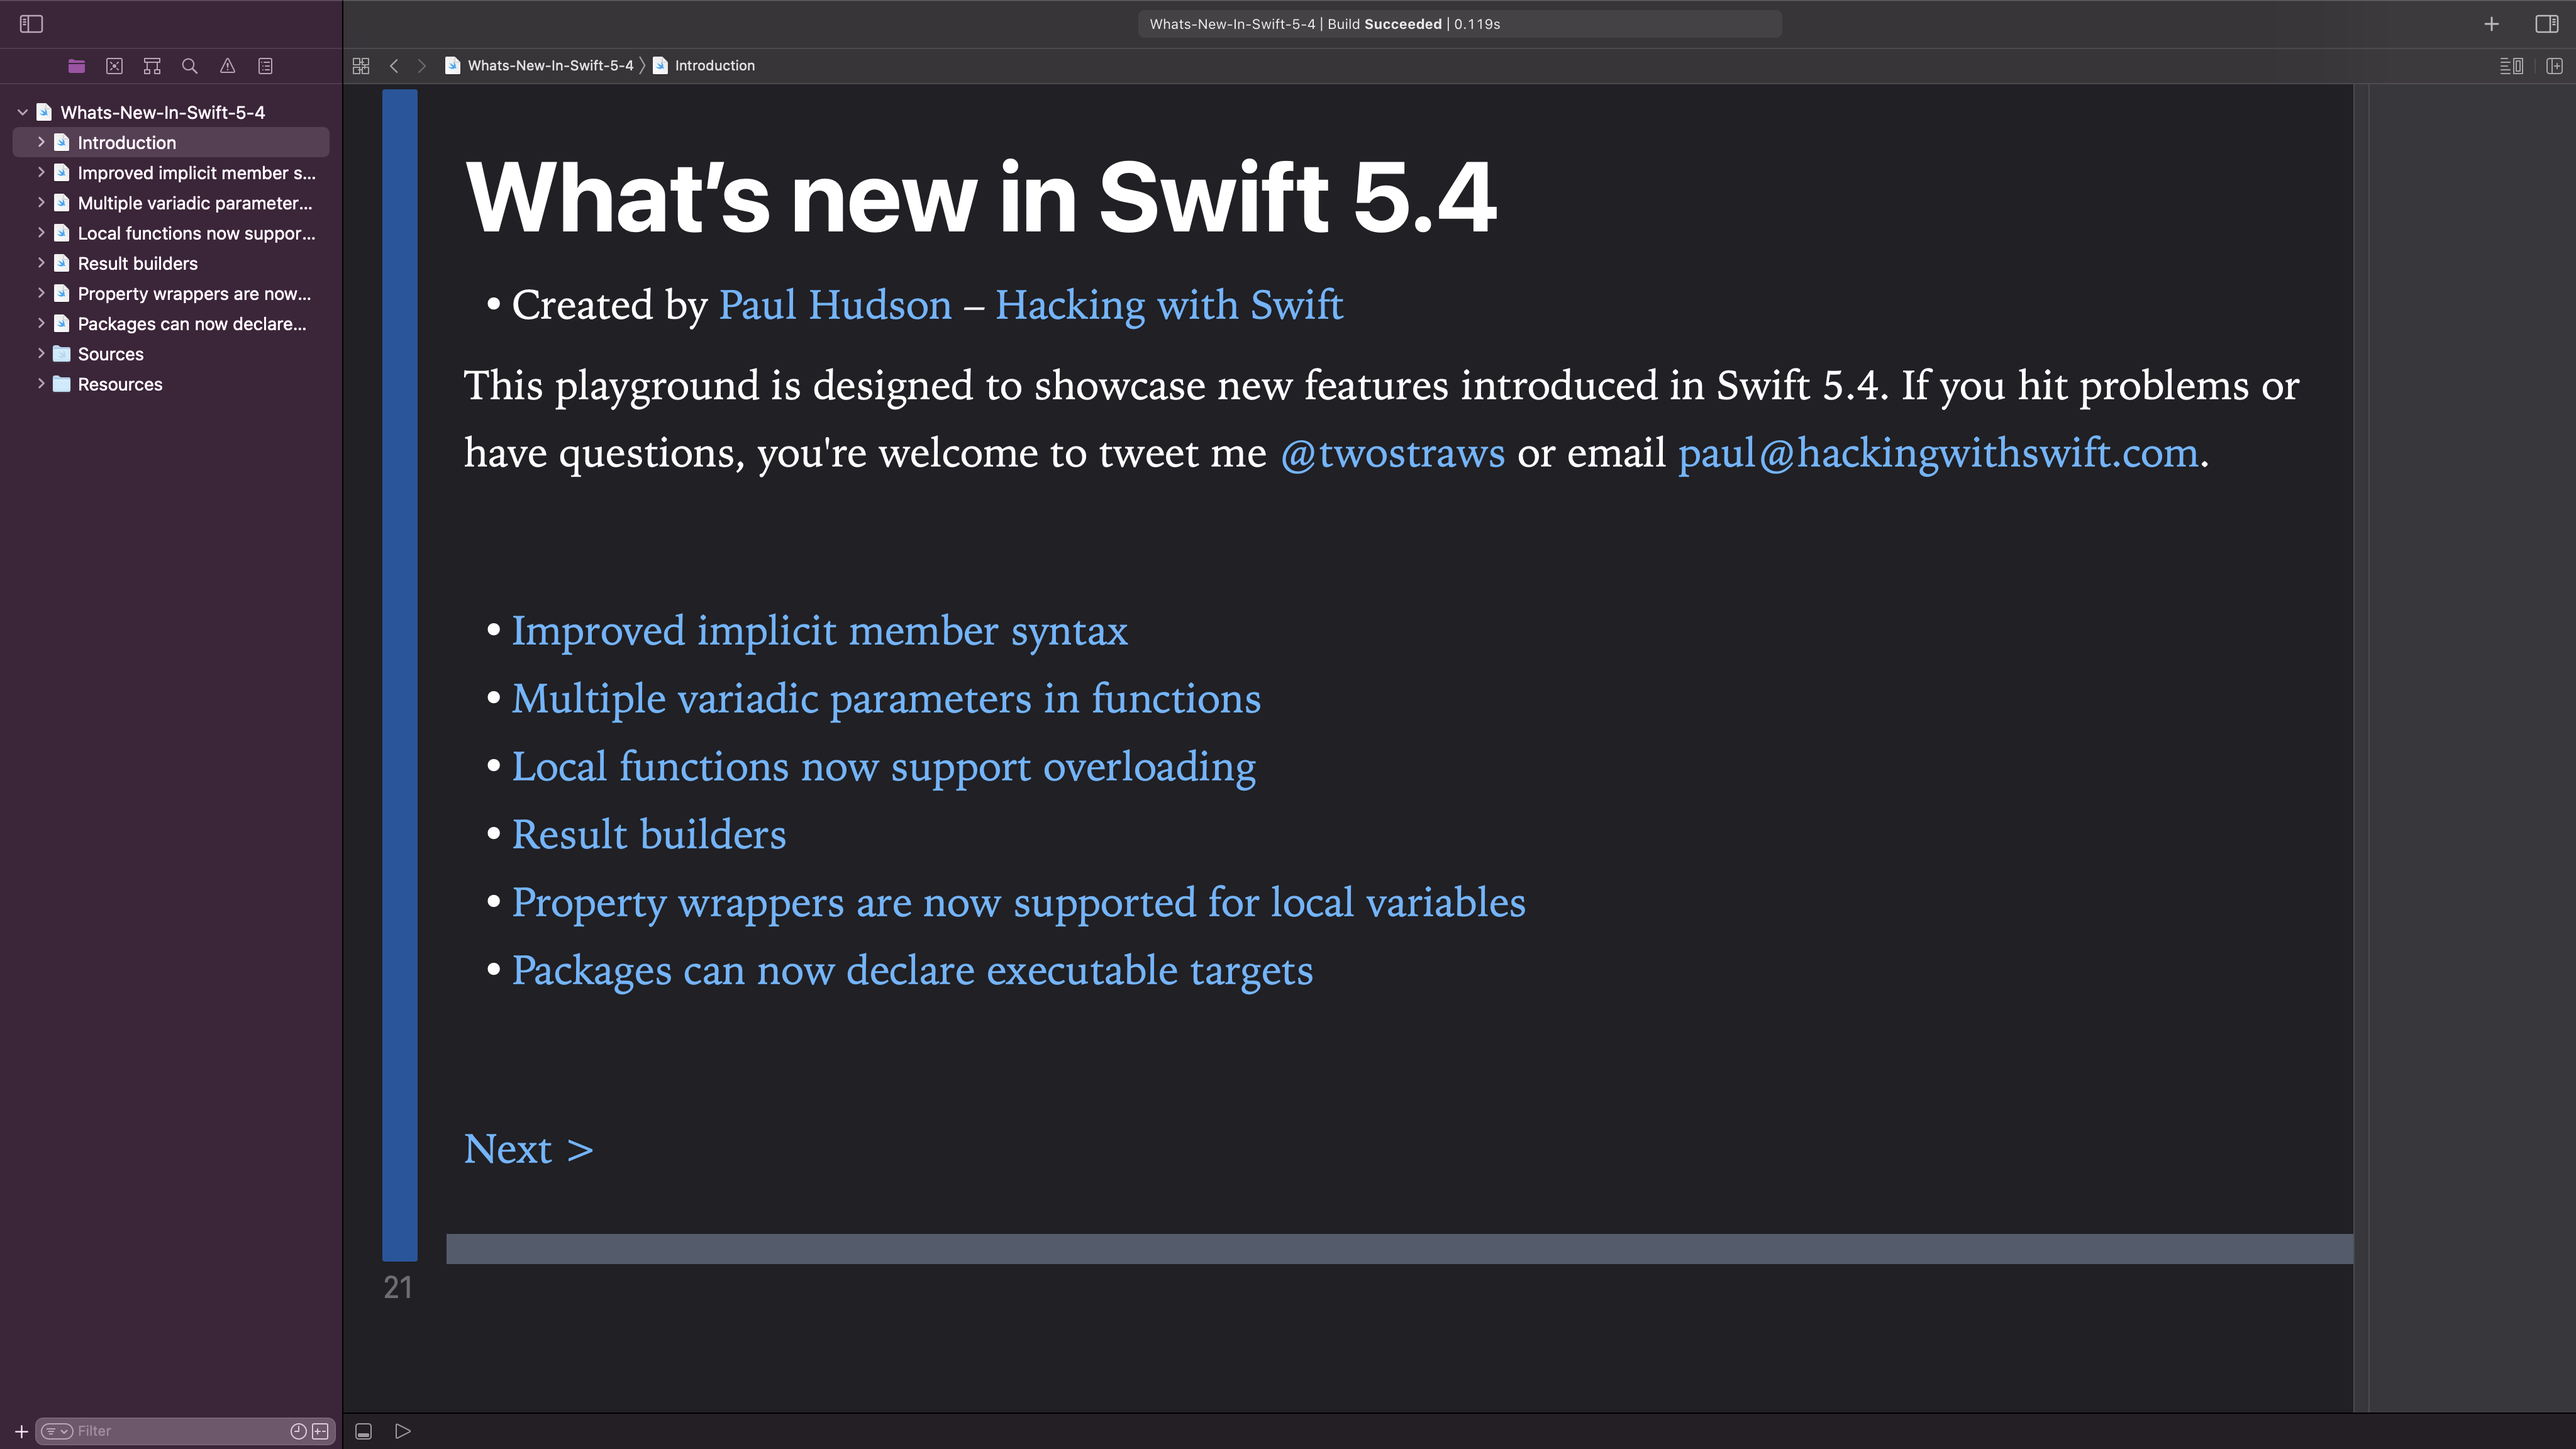
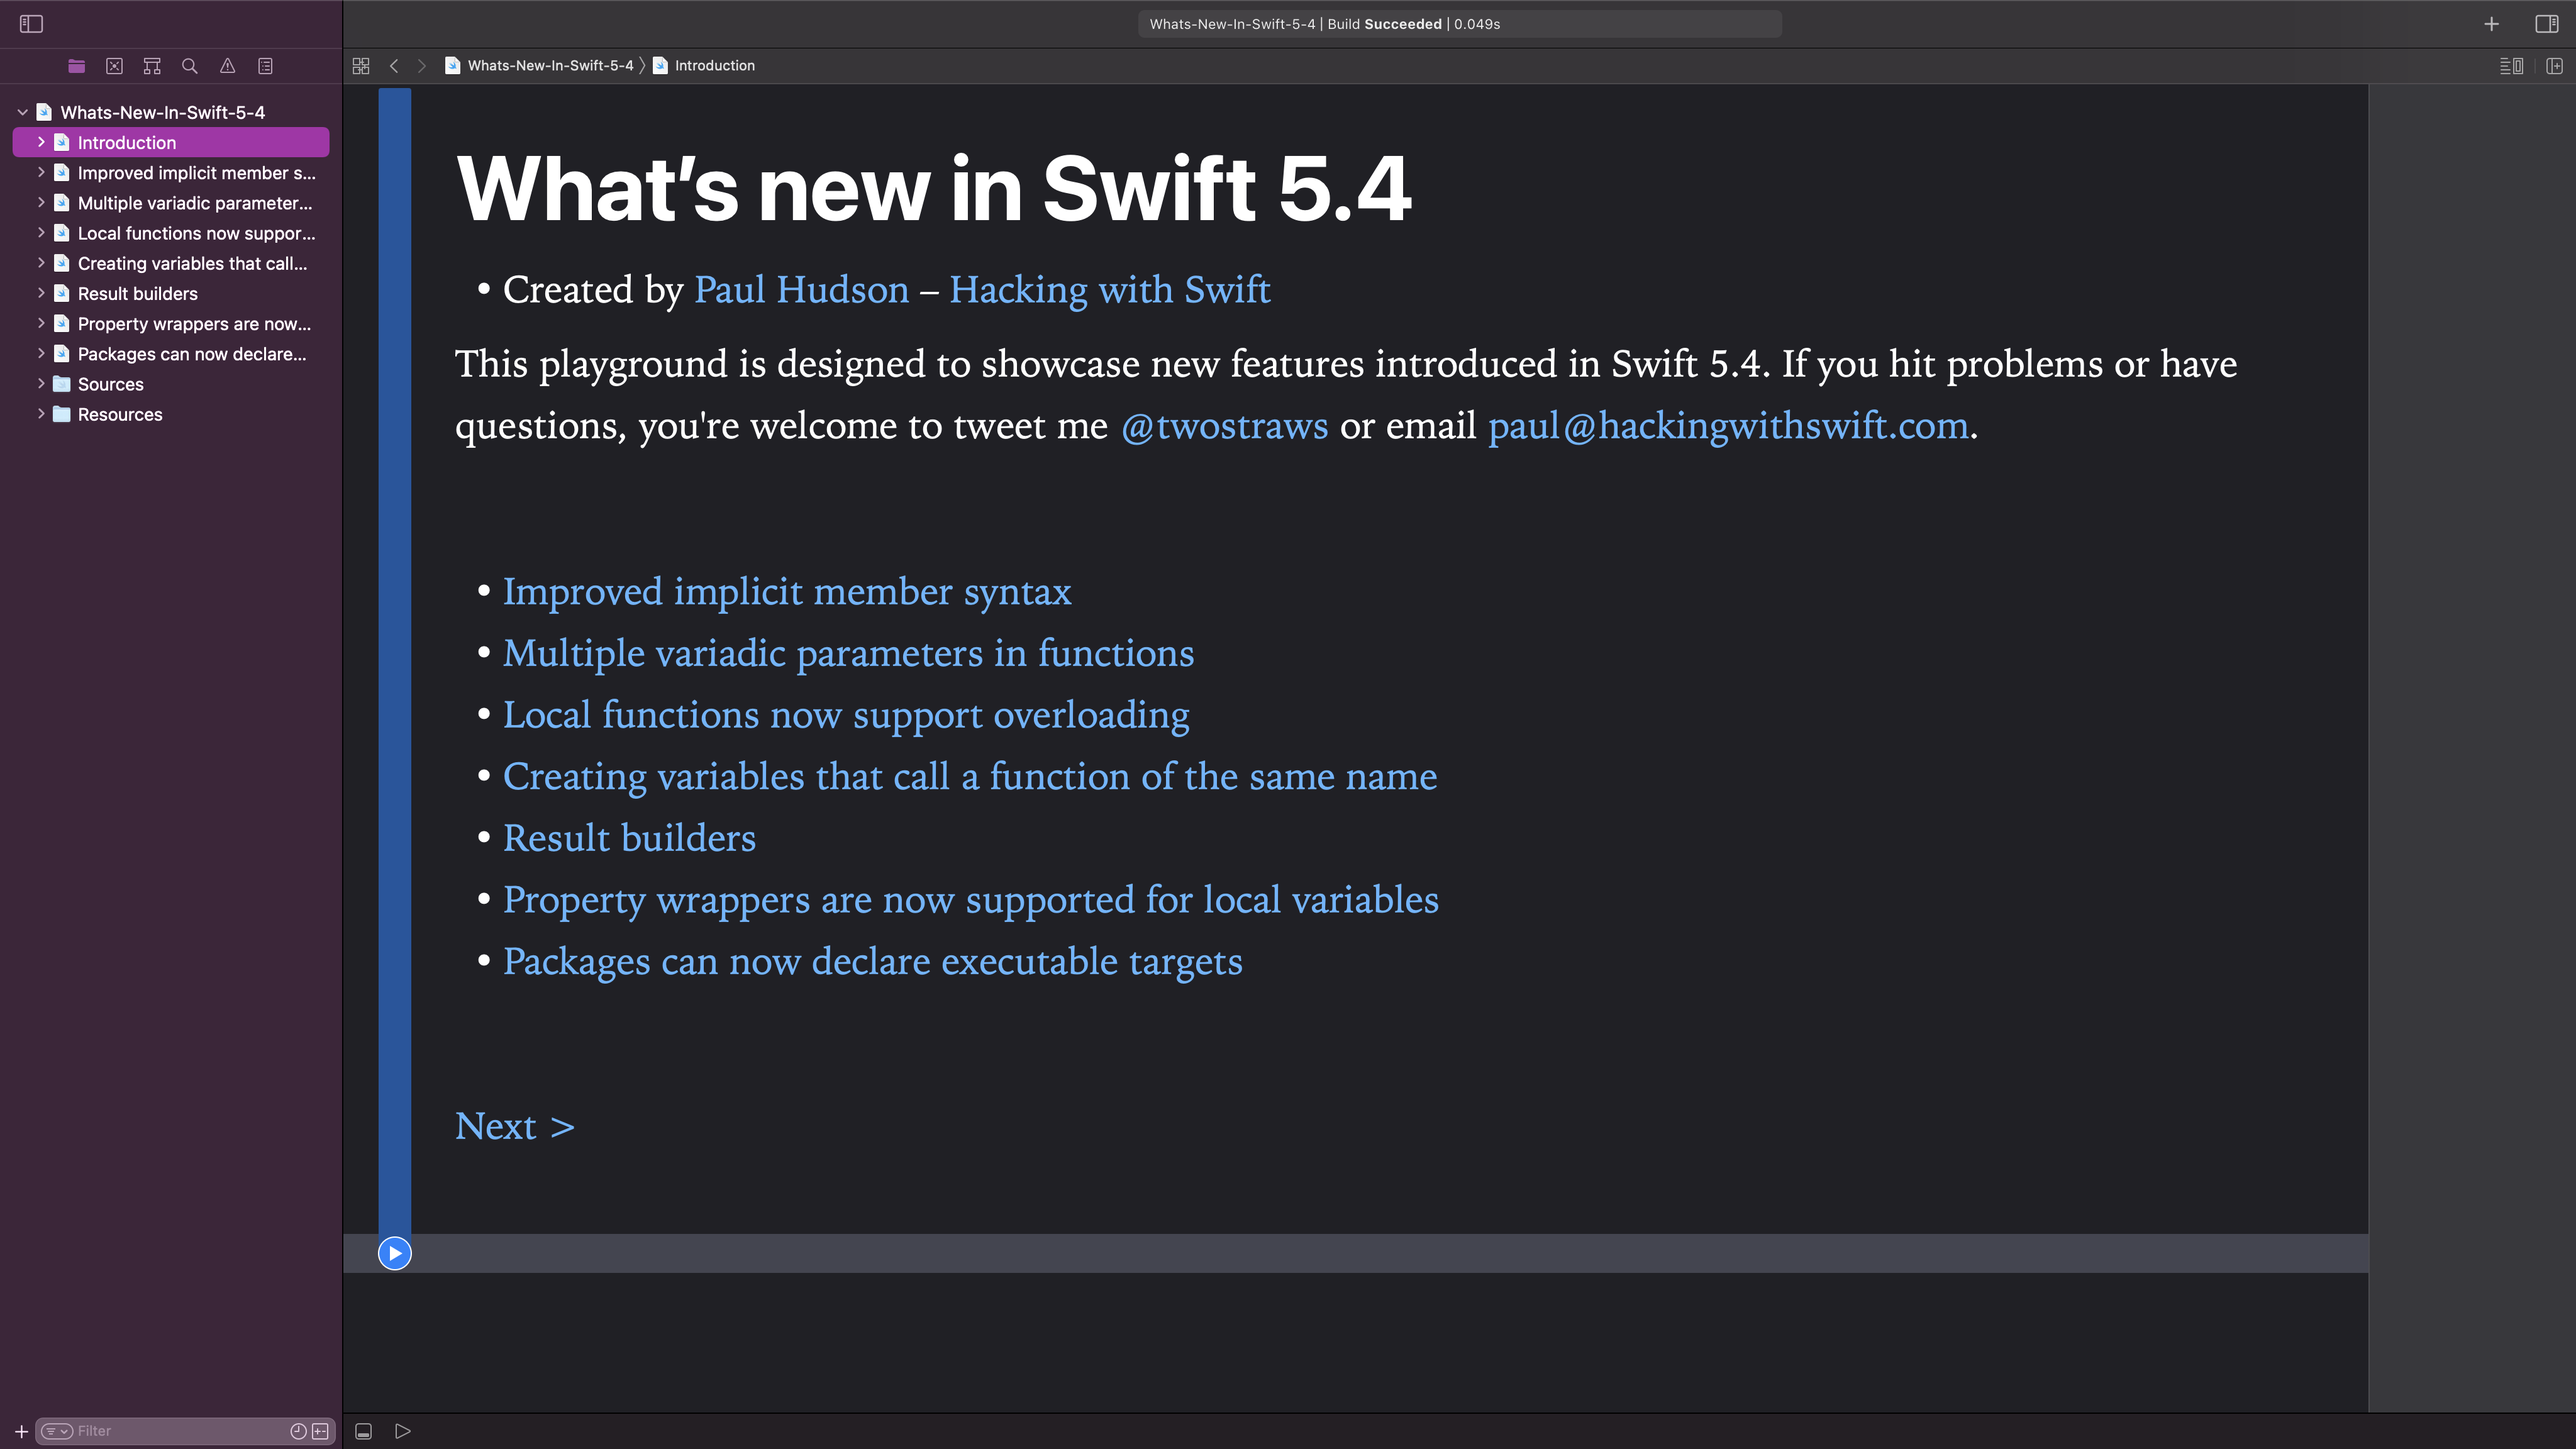
Added more to overloading local functions; added local variable naming page.

diff --git a/Whats-New-In-Swift-5-4.playground/Pages/Creating variables that call a function of the same name.xcplaygroundpage/Contents.swift b/Whats-New-In-Swift-5-4.playground/Pages/Creating variables that call a function of the same name.xcplaygroundpage/Contents.swift
@@ -1,0 +1,72 @@
+/*:
+
+
+&nbsp;
+
+[< Previous](@previous)           [Home](Introduction)           [Next >](@next)
+# Creating variables that call a function of the same name
+
+From Swift 5.4 onwards it’s possible to create a local variable by calling a function of the same name. That might sound obscure, but it’s actually a problem we hit all the time.
+
+For example, this creates a struct with a `color(forRow:)` method, which gets called and assigned to a local variable called `color`:
+*/
+struct Table {
+    let count = 10
+    
+    func color(forRow row: Int) -> String {
+        if row.isMultiple(of: 2) {
+            return "red"
+        } else {
+            return "black"
+        }
+    }
+    
+    func printRows() {
+        for i in 0..<count {
+            let color = color(forRow: i)
+            print("Row \(i): \(color)")
+        }
+    }
+}
+    
+let table = Table()
+table.printRows()
+/*:
+That kind of usage is only allowed from Swift 5.4 and later. In earlier versions of Swift, it would create a circular reference because Swift couldn’t distinguish between the local `color` constant and the `color(forRow:)` method it was calling – you would have seen the error “Variable used within its own initial value”.
+
+This usually resulted in us either using `self.color(forRow: 1989)` to make it clear we mean the method call, or just naming the local value something else such as `colorForRow`.
+
+Fortunately Swift 5.4 [resolves this](https://github.com/apple/swift/blob/main/test/Sema/diag_variable_used_in_initial.swift) and allows us to use the more natural naming.
+
+This change also allows us to make local copies of properties and global variables. For example, we can take a copy of a `username` property that is also called `username`, like this:
+*/
+struct User {
+    let username = "Taylor"
+    
+    func suggestAlternativeUsername() -> String {
+        var username = username
+        username += String(Int.random(in: 1000...9999))
+        return username
+    }
+}
+    
+let user = User()
+user.suggestAlternativeUsername()
+/*:
+Because this also applies to global variables, that same code works just fine even without the struct in place:
+*/
+let username = "Taytay"
+
+func suggestAlternativeUsername() -> String {
+    var username = username
+    username += String(Int.random(in: 1000...9999))
+    return username
+}
+
+suggestAlternativeUsername()
+/*:
+
+&nbsp;
+
+[< Previous](@previous)           [Home](Introduction)           [Next >](@next)
+*/

diff --git a/Whats-New-In-Swift-5-4.playground/Pages/Local functions now support overloading.xcplaygroundpage/Contents.swift b/Whats-New-In-Swift-5-4.playground/Pages/Local functions now support overloading.xcplaygroundpage/Contents.swift
@@ -37,6 +37,29 @@ makeCookies()
 /*:
 Prior to Swift 5.4, the three `add()` methods could be overloaded only if they were not nested inside `makeCookies()`, but from Swift 5.4 onwards function overloading is supported in this case as well.
 
+Swift 5.4 also lets us call local functions before they are declared, meaning that we can now write code like this if needed:
+*/
+func makeCookies2() {   
+    add(item: Butter())
+    add(item: Flour())
+    add(item: Sugar())
+        
+    func add(item: Butter) {
+        print("Adding butter…")
+    }
+    
+    func add(item: Flour) {
+        print("Adding flour…")
+    }
+    
+    func add(item: Sugar) {
+        print("Adding sugar…")
+    }
+}
+    
+makeCookies2()
+/*:
+
 &nbsp;
 
 [< Previous](@previous)           [Home](Introduction)           [Next >](@next)

diff --git a/Whats-New-In-Swift-5-4.playground/Pages/Introduction.xcplaygroundpage/Contents.swift b/Whats-New-In-Swift-5-4.playground/Pages/Introduction.xcplaygroundpage/Contents.swift
@@ -10,6 +10,7 @@
  * [Improved implicit member syntax](Improved%20implicit%20member%20syntax)
  * [Multiple variadic parameters in functions](Multiple%20variadic%20parameters%20in%20functions)
  * [Local functions now support overloading](Local%20functions%20now%20support%20overloading)
+ * [Creating variables that call a function of the same name](Creating%20variables%20that%20call%20a%20function%20of%20the%20same%20name)
  * [Result builders](Result%20builders)
  * [Property wrappers are now supported for local variables](Property%20wrappers%20are%20now%20supported%20for%20local%20variables)
  * [Packages can now declare executable targets](Packages%20can%20now%20declare%20executable%20targets)

diff --git a/README.md b/README.md
@@ -4,6 +4,7 @@ This is an Xcode playground that demonstrates the new features introduced in Swi
 
 * Improved implicit member syntax
 * Multiple variadic parameters in functions
+* Creating variables that call a function of the same name
 * Result builders
 * Local functions now support overloading
 * Property wrappers are now supported for local variables
